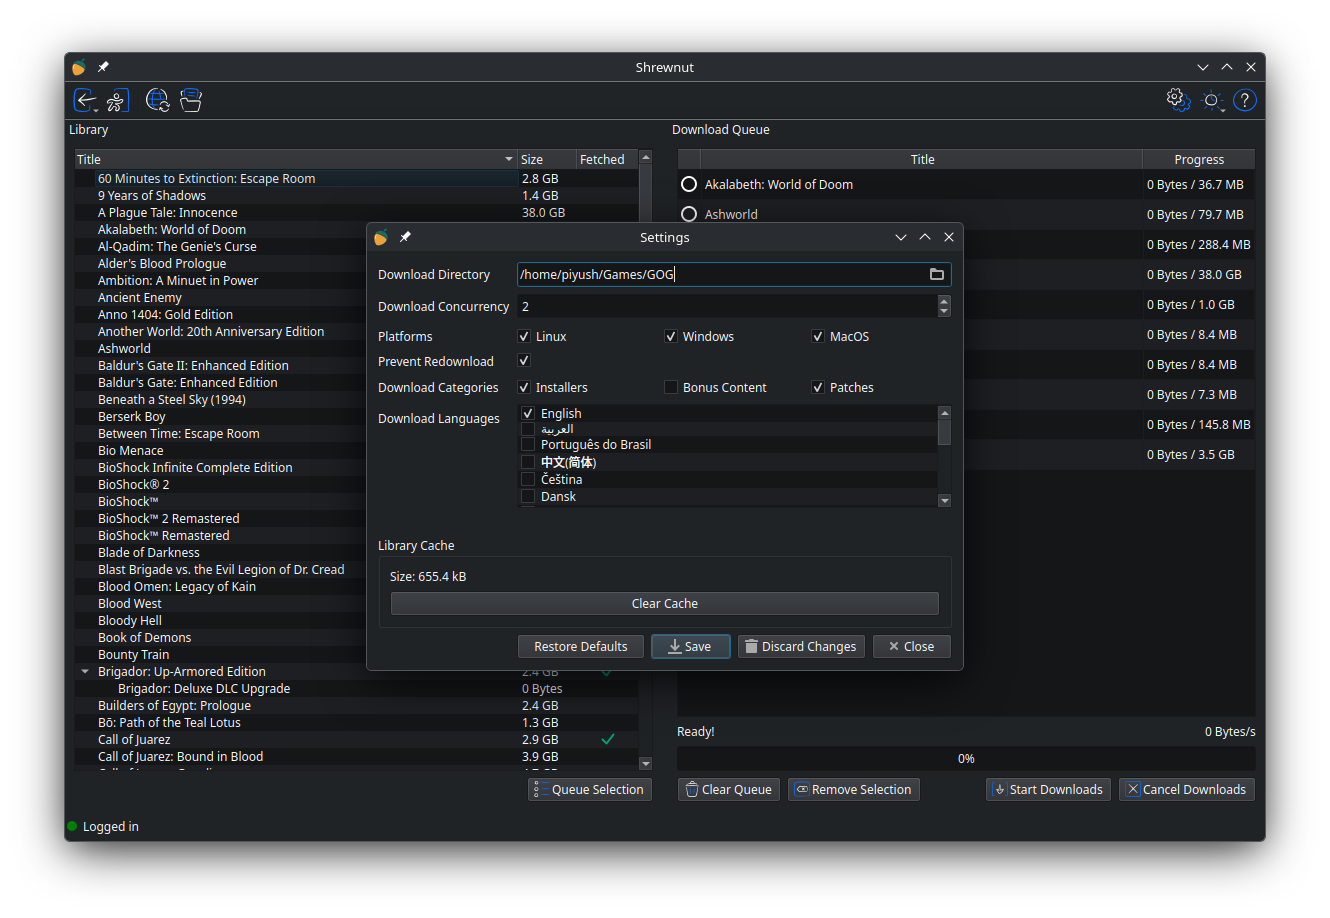
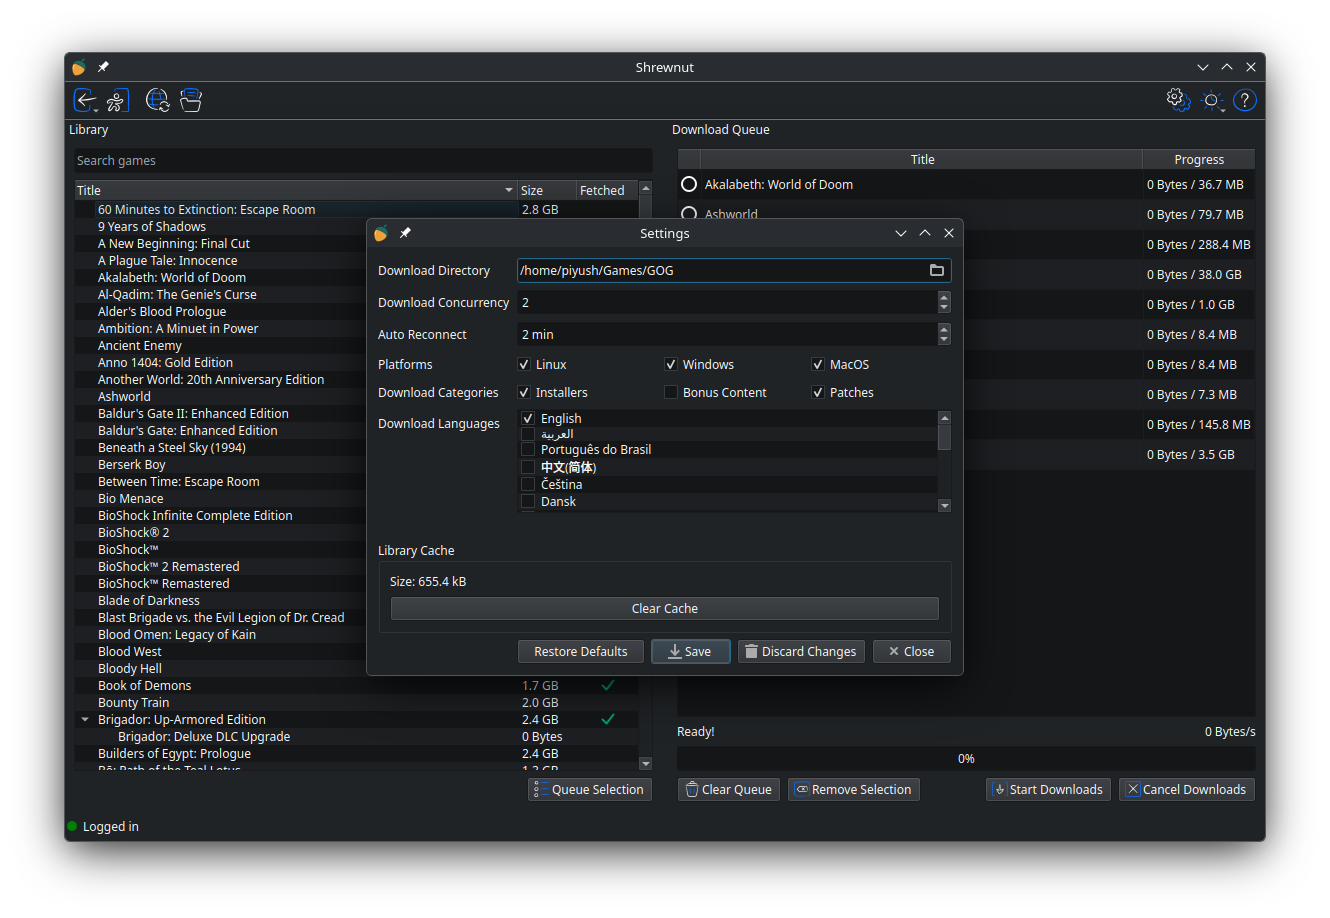
Update the README for the new release
List auto-reconnect and the search box under Features instead of
Planned, and retake the screenshots so the library shows the search
box.

diff --git a/README.md b/README.md
@@ -58,11 +58,11 @@ I'd appreciate your feedback on bugs, features, or improvements in the [issues s
 - Prevents files from being re-downloaded if they are already on disk
 - Dark mode and light mode support
 - Auto-update for Linux users using GearLever
+- Auto-resume when internet reconnects after a drop
+- Search bar lookup for large libraries
 
 Planned:
 - Scanning existing directories for downloaded files ([#28](https://github.com/preppie22/shrewnut/issues/28))
-- Search bar lookup for large libraries ([#16](https://github.com/preppie22/shrewnut/issues/16))
-- Auto-resume when internet reconnects after a drop ([#34](https://github.com/preppie22/shrewnut/issues/34))
 - Pick individual files to download for each game ([#36](https://github.com/preppie22/shrewnut/issues/36))
 - Non-intrusive update notification ([#37](https://github.com/preppie22/shrewnut/issues/37))
 
